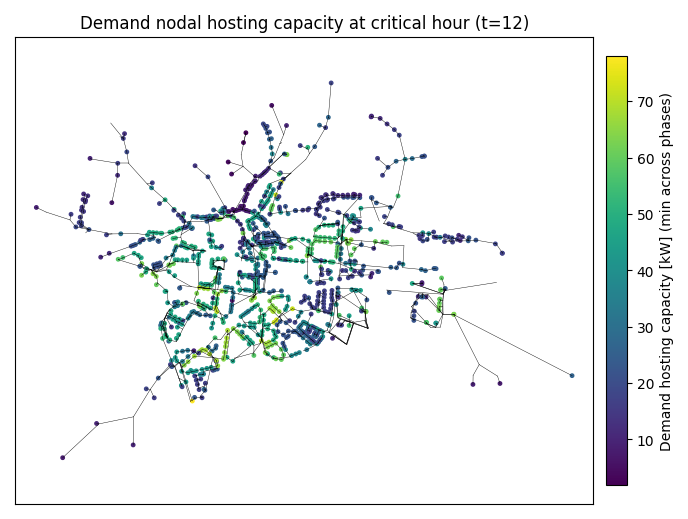
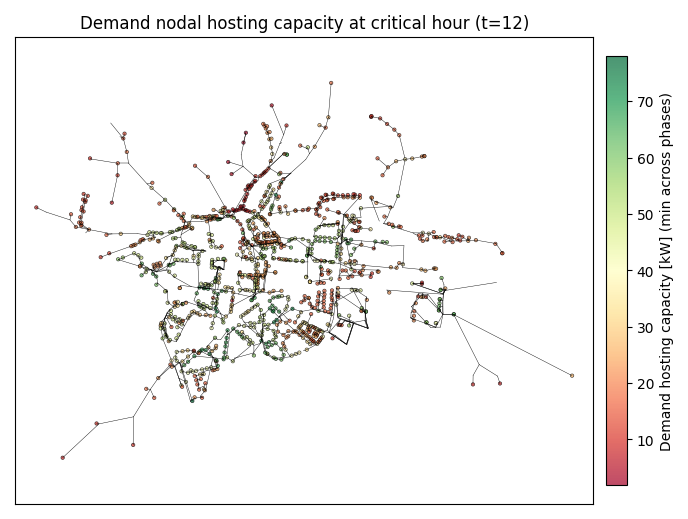
Add circle plotting options and improve output file handling

diff --git a/ch_4_plot_map.py b/ch_4_plot_map.py
@@ -3,9 +3,12 @@ from pathlib import Path
 import sqlite3
 import platform
 import subprocess
+import time
 
 import numpy as np
 import pandas as pd
+import matplotlib
+matplotlib.use('Agg')  # Non-interactive backend
 import matplotlib.pyplot as plt
 
 
@@ -16,6 +19,20 @@ INCH_PER_MM = 1 / 25.4
 
 CRITICAL_HOUR_DEMAND = 12
 PLOT_LINES = True  # Now enabled (black lines)
+
+# ---------- Circle Settings ----------
+PLOT_CIRCLES = True  # Toggle circle points on/off (master toggle)
+
+# Circle fill (inside)
+PLOT_CIRCLE_FILL = True  # Toggle circle fill color on/off. When True, circles are colored by HC values using CIRCLE_CMAP. When False, circles appear in a plain gray color.
+CIRCLE_SIZE = 6  # Size of circles in points. Larger values make circles more visible. Typical range: 5-20.
+CIRCLE_CMAP = "RdYlGn"  # Color map for circle fill. "RdYlGn" maps red (low HC) → yellow (medium) → green (high HC). Other options: "viridis", "plasma", "cool", "hot". Only used if PLOT_CIRCLE_FILL is True.
+CIRCLE_ALPHA = 0.7  # Transparency of circle fill. Range: 0 (invisible) to 1 (fully opaque). Lower values make overlapping circles more visible.
+
+# Circle border (outline)
+PLOT_CIRCLE_EDGE = True  # Toggle circle border/outline on/off. When True, circles have a visible edge. When False, circles have no outline.
+CIRCLE_EDGE_COLOR = "black"  # Color of the circle outline. Use any matplotlib color name (e.g., "black", "white", "red") or hex code (e.g., "#000000").
+CIRCLE_EDGE_WIDTH = 0.5  # Thickness of the circle outline in points. Range: 0 (no outline) to ~2+ (thick outline). Typical range: 0.1-1.0.
 
 
 def read_capmap(cap_path: Path) -> pd.DataFrame:
@@ -114,16 +131,31 @@ def main():
                 alpha=1.0
             )
 
-    sc = ax.scatter(
-        pts["X"],
-        pts["Y"],
-        c=pts["HC"],
-        s=6,
-        cmap="viridis"
-    )
+    if PLOT_CIRCLES:
+        # Determine edge properties based on toggle
+        edge_color = CIRCLE_EDGE_COLOR if PLOT_CIRCLE_EDGE else "none"
+        edge_width = CIRCLE_EDGE_WIDTH if PLOT_CIRCLE_EDGE else 0
 
-    cb = plt.colorbar(sc, ax=ax, fraction=0.035, pad=0.02)
-    cb.set_label("Demand hosting capacity [kW] (min across phases)")
+        # Determine color scaling: vmin = minimum HC value (maps to red), vmax = maximum HC value (maps to green)
+        hc_min = pts["HC"].min()
+        hc_max = pts["HC"].max()
+
+        sc = ax.scatter(
+            pts["X"],
+            pts["Y"],
+            c=pts["HC"] if PLOT_CIRCLE_FILL else "lightgray",
+            s=CIRCLE_SIZE,
+            cmap=CIRCLE_CMAP if PLOT_CIRCLE_FILL else None,
+            alpha=CIRCLE_ALPHA if PLOT_CIRCLE_FILL else 0.3,
+            edgecolors=edge_color,
+            linewidth=edge_width,
+            vmin=hc_min if PLOT_CIRCLE_FILL else None,
+            vmax=hc_max if PLOT_CIRCLE_FILL else None
+        )
+
+        if PLOT_CIRCLE_FILL:
+            cb = plt.colorbar(sc, ax=ax, fraction=0.035, pad=0.02)
+            cb.set_label("Demand hosting capacity [kW] (min across phases)")
 
     ax.set_title(
         f"Demand nodal hosting capacity at critical hour (t={CRITICAL_HOUR_DEMAND:02d})"
@@ -138,10 +170,12 @@ def main():
     outpath = outdir / f"map_demand_global_hour{CRITICAL_HOUR_DEMAND:02d}_175x132mm.png"
     fig.savefig(outpath)
     plt.close(fig)
+    plt.close('all')  # Ensure all figures are closed
 
     print("[OK] Saved:", outpath.resolve())
 
-    # Open the output file
+    # Open the output file with a delay to ensure file is fully written
+    time.sleep(0.5)
     try:
         if platform.system() == "Windows":
             os.startfile(str(outpath))
